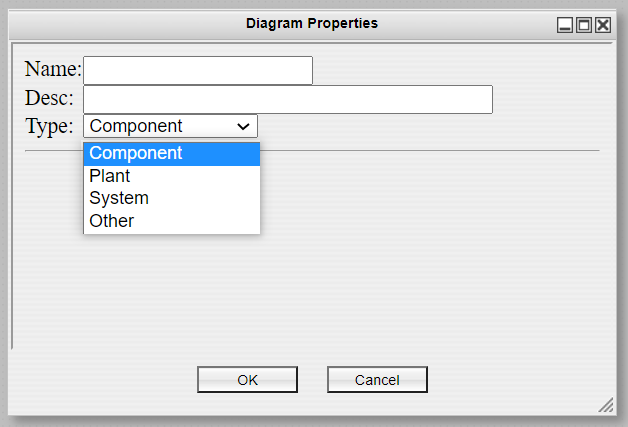
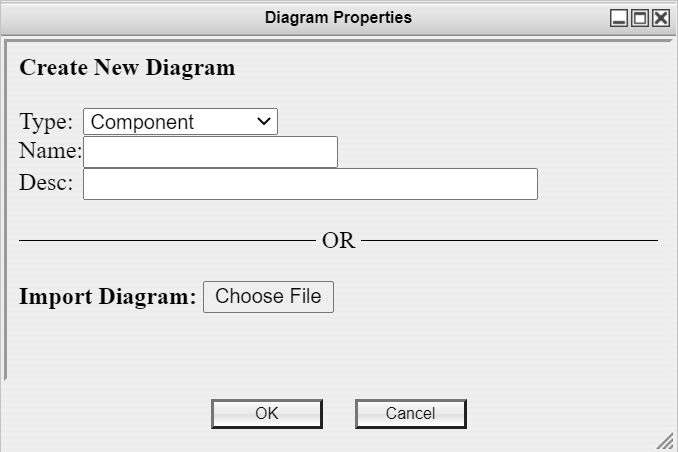
Merge Updates Pt.1

Changed region(s): [[0.0, 0.0, 0.9984, 1.0], [0.7564, 0.2436, 0.7866, 0.274]]

diff --git a/emrald-docs/src/guide/Modeling/webUIOverview.md b/emrald-docs/src/guide/Modeling/webUIOverview.md
@@ -11,11 +11,21 @@
 
 ## Top Menu Bar
 **Project** <br>
-  <div style="width:500px">![Project Menu](/images/Modeling/webUIOverview/TopMenuProject.PNG)</div> <br>
-  * New: Creates a new project. The following window appears in the Modeling Area.<br>
+  <div style="width:600px">![Project Menu](/images/Modeling/webUIOverview/TopMenuProject.PNG)</div> <br>
+  * **New**: Creates a new project. The following window appears in the Modeling Area.<br>
   <div style="width:500px">![New Project Window](/images/Modeling/webUIOverview/NewProject.PNG)</div><br>
 
       After hitting the "Ok" button, your project name will populate the right corner of the header.<br>![New Project Window](/images/Modeling/webUIOverview/NewProjectHeader.PNG)
+  - **Merge:** Merge one project into another project. This will pull in all diagrams, states, events, actions, variables, and logic trees into the project. First it will bring up a File Explorer, browse for the file you want to merge in and click "Open". <br>
+  <div style="width:500px">![Open File to Merge Window](/images/Modeling/webUIOverview/Merge_1.PNG)</div><br>
+  If there are diagrams or components with identical names in the models being merged, a conflict window will appear with a list of all of the identically named items. There are three options of how to resolve the conflict.
+    - Overwrite: The item being merged in will replace the item in the base project.
+    - Ignore: The item being merged in will be disregarded and the item in the base project will remain unchanged.
+    - Rename: The item being merged in can be renamed and made a new and separate item. A text box will appear in an adjacent column where you can edit the new name of the item being merged in. <br>
+
+    ![Open File to Merge Window](/images/Modeling/webUIOverview/Merge_3.PNG)<br>
+
+  Once you complete your conflict resolution choices, click ""Submit"" and the model will merge into the base model accordingly.
   - **Open:** Browse to open an existing project.
   - **Save:** Operates like a standard "Save As" to save the current project.
   - **Export Templates:** Allows you to save any project template items for use in other projects. When clicked from the dropdown menu, the following window appears in the Modeling Area.<br><div style="width:400px">![Export Template Window](/images/Modeling/webUIOverview/ExportTemplate.PNG)</div>

diff --git a/emrald-docs/src/guide/Modeling/diagrams.md b/emrald-docs/src/guide/Modeling/diagrams.md
@@ -7,7 +7,13 @@
   On the Left Navigation Frame, right-click on "Diagrams" and click "New Diagram". <br>
   <div style="width:300px">![Right Click for New Diagram](/images/Modeling/diagrams/NewDiagram1.PNG)</div>
 
-  Fill out the dialogue box. A description is optional. Ensure the correct type of diagram is selected as switching between diagram types can sometimes cause errors due to the differing modeling options. Once you have completed filling the fields, press "OK". <br>
+  There are two options, both seen in the properties window.
+
+  **Option 1: Top Half**
+  Fill out the dialogue box. A description is optional. Click the dropdown menu next to Type to select the type of diagram you would like to create. The different types are Plant, Component, System, and Other. More information on these types are in the [Types of Diagrams](#types-of-diagrams) section. Ensure the correct type of diagram is selected as switching between diagram types can sometimes cause errors due to the differing modeling options. Once you have completed filling the fields, press "OK". <br>
+
+  **Option 2: Bottom Half**
+  Click "Choose File" to import an existing diagram from another project. See the Merge section of the [Top Menu Bar](/guide/Modeling/webUIOverview.md #top-menu-bar) for instructions on how to resolve conflicts if there are any.
   <div style="width:500px">![New Diagram Dialogue Box](/images/Modeling/diagrams/NewDiagram2.PNG)</div>
 
   It will then open an empty diagram form in the Modeling Area. The diagram name should also appear in the Left Navigation Frame. <br>
